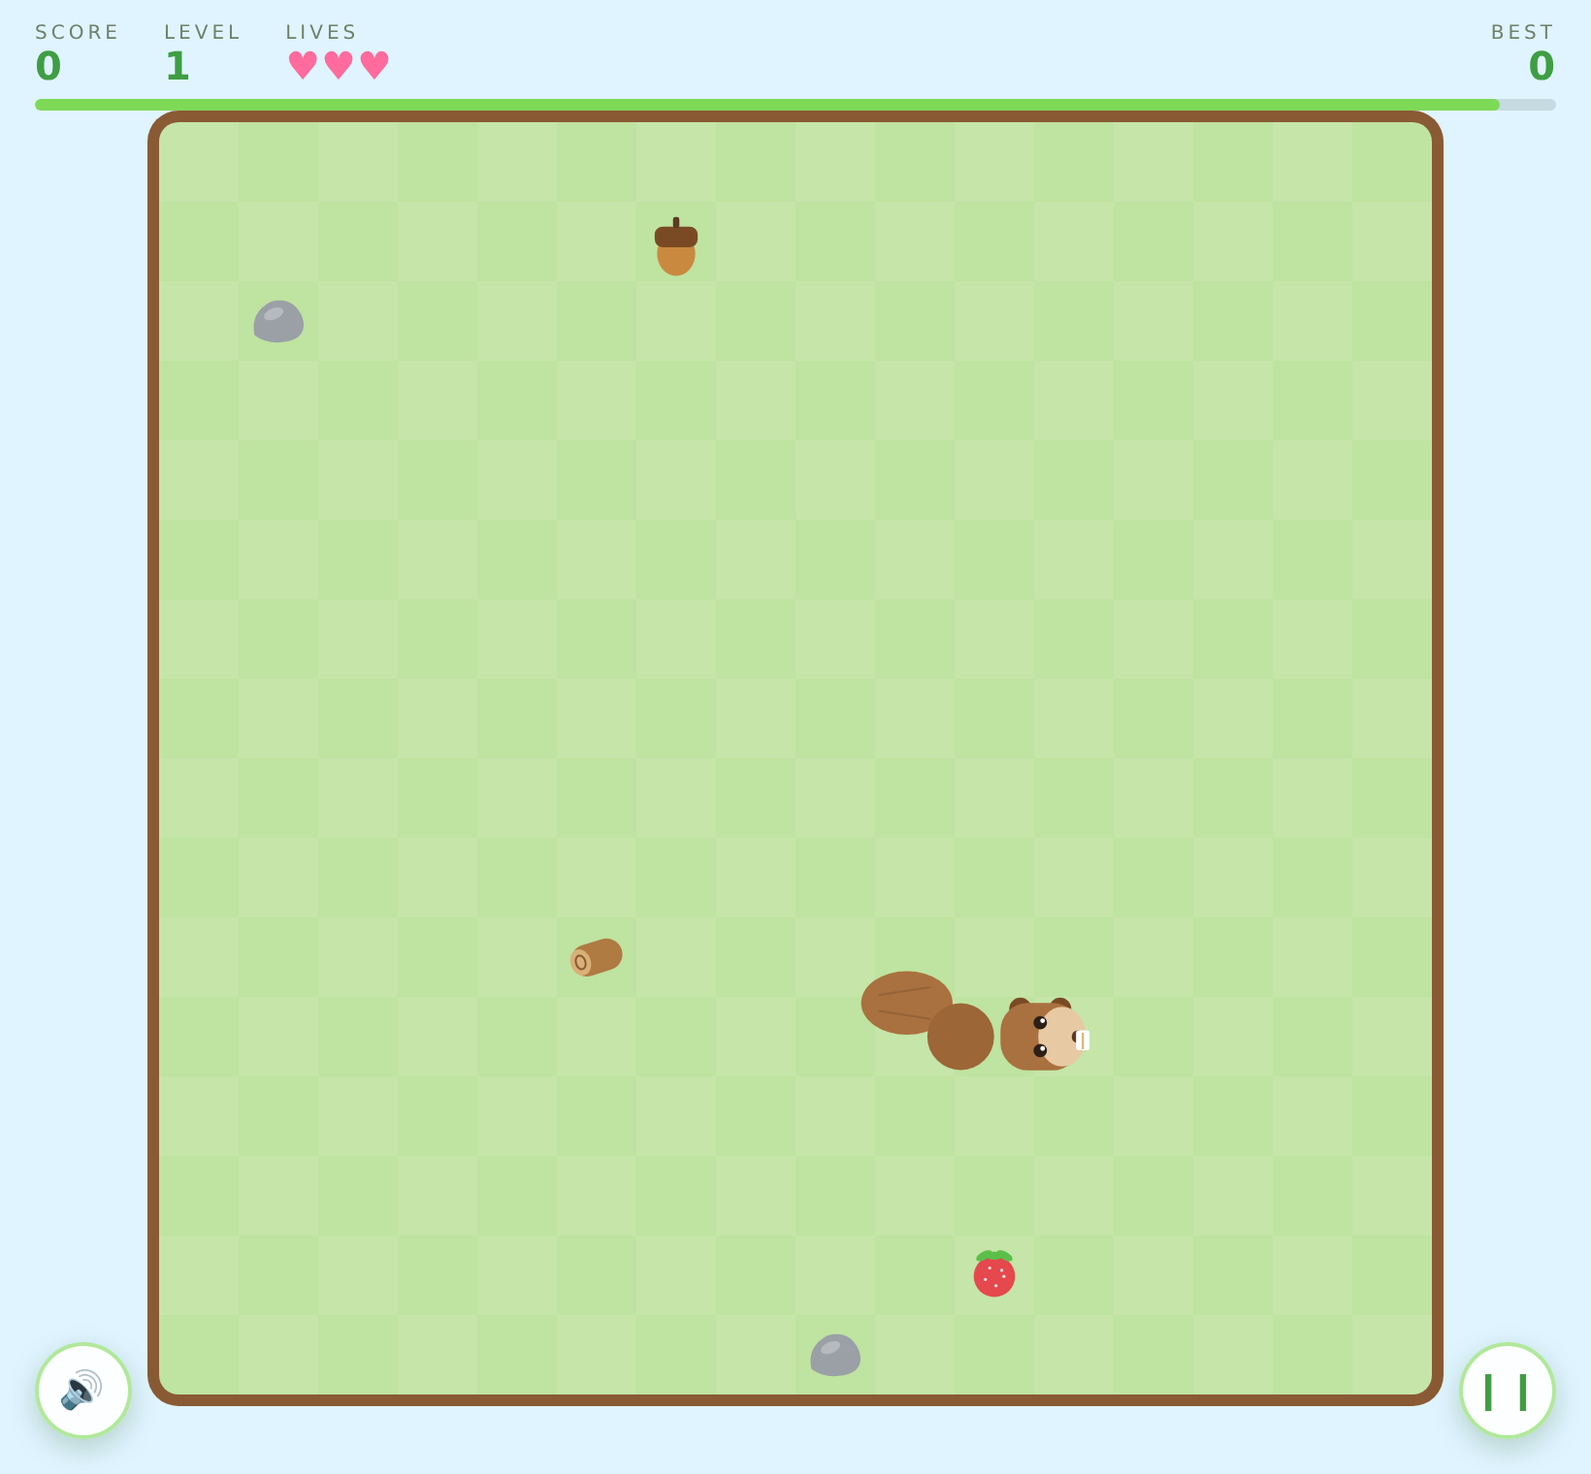
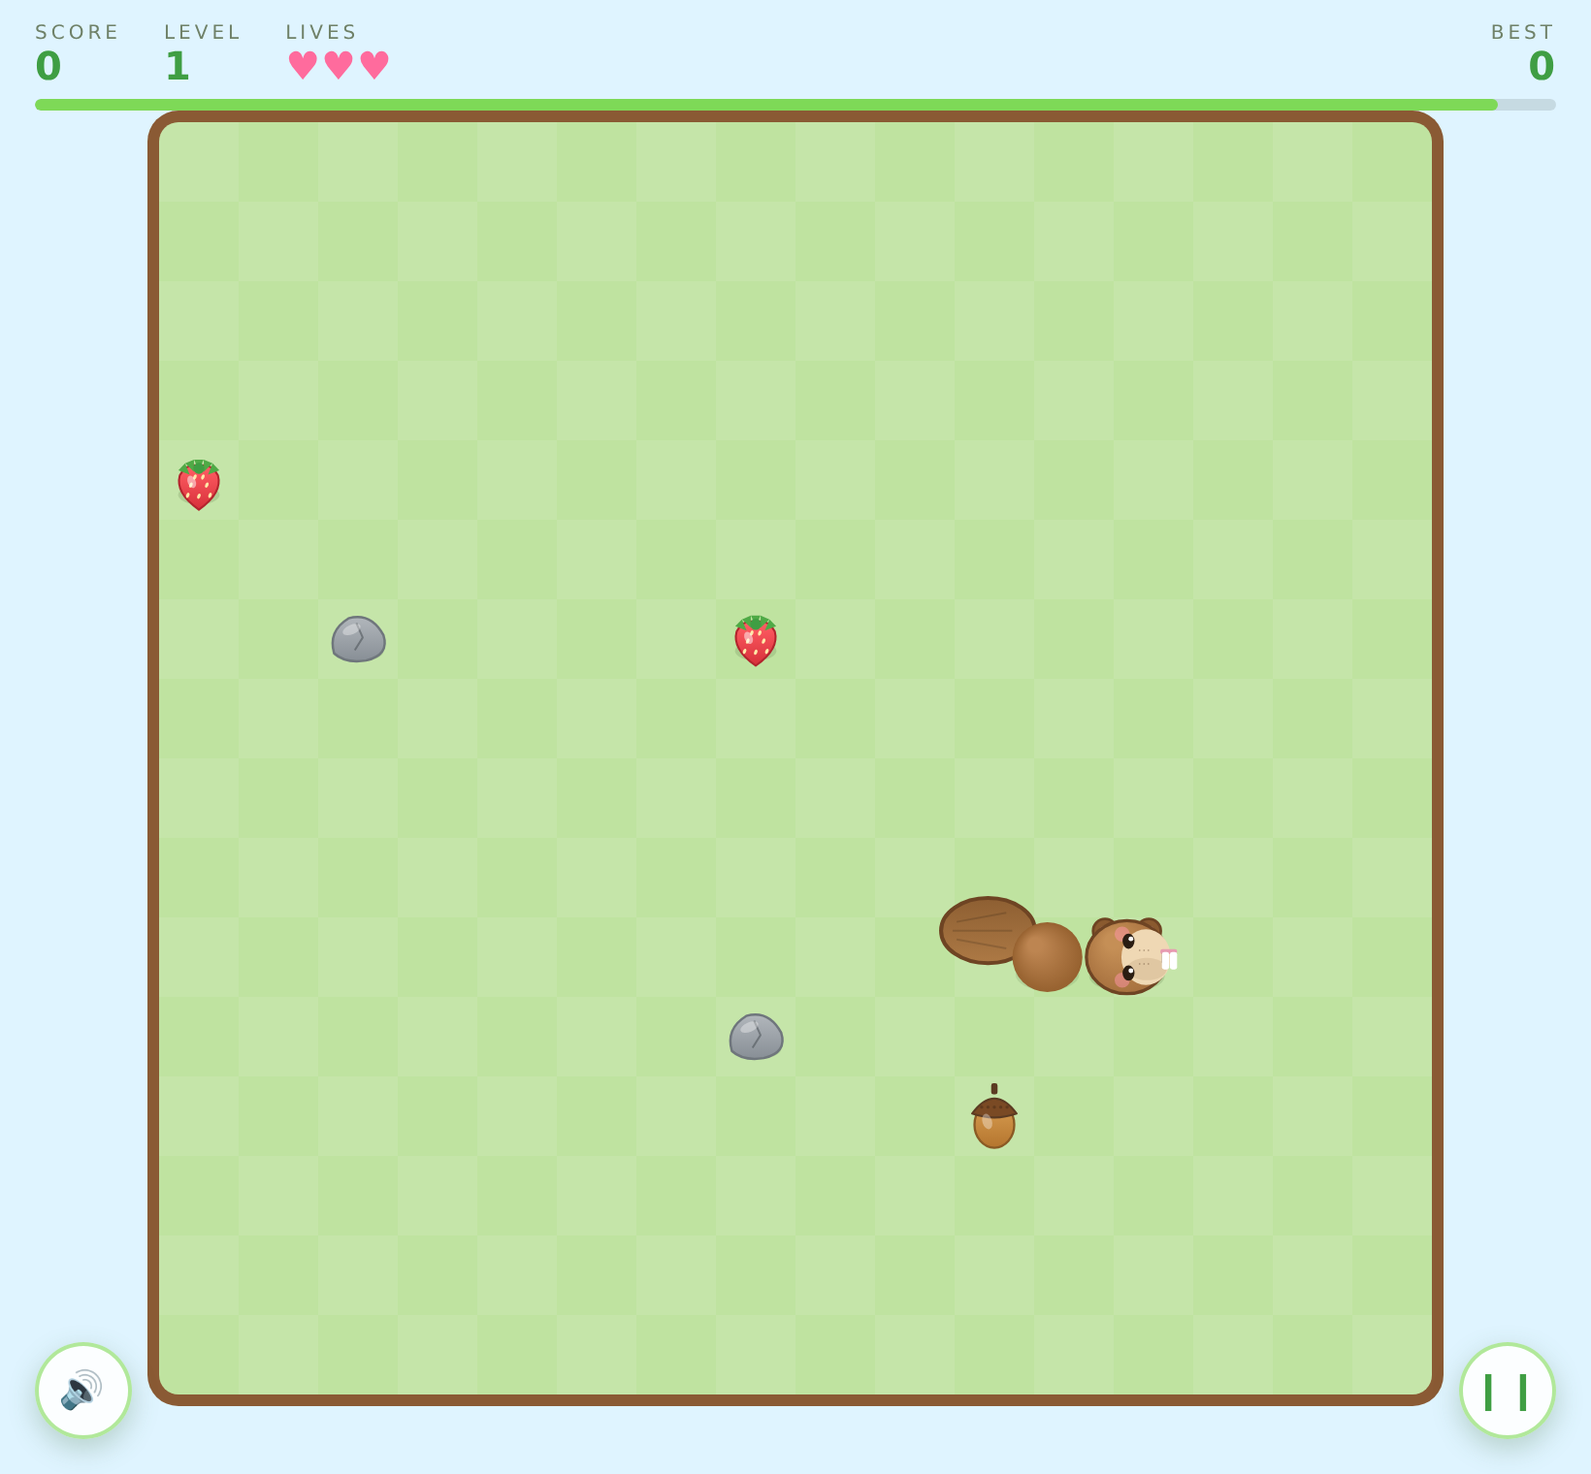
Polish Beaver Chase sprite art (shading, outlines, depth)
A craft pass on the canvas drawings for a more refined, cohesive
"cute sticker" look:

- Beaver: radial-shaded fur with a clean outline, pink inner ears,
  bigger sparkly eyes with an occasional blink, blush cheeks, a shiny
  triangular nose, gummed buck teeth, and whisker dots
- Body segments: radial shading + soft ground shadows; paddle tail now
  has a gradient, scale texture and outline
- Collectibles: gradient fills, outlines and highlights — the strawberry
  gets seeds + calyx, the acorn a textured cap + stem, the gem faceting,
  the log end-grain rings
- Rocks and the fish hazard: gradient shading, outlines, cracks/fins and
  soft ground shadows for depth

All still pure canvas — no assets, consistent color on every platform.

Claude-Session: https://claude.ai/code/session_014mrTRHqCUXy1hSyhseQPs2

diff --git a/snake/game.js b/snake/game.js
@@ -441,68 +441,146 @@
     ctx.closePath();
   }
 
+  // soft shadow on the grass beneath a sprite (call after translate, before rotate)
+  function groundShadow(rx, ry) {
+    ctx.fillStyle = "rgba(60,85,45,0.16)";
+    ctx.beginPath(); ctx.ellipse(0, ry * 1.2, rx, ry, 0, 0, 7); ctx.fill();
+  }
+
   function drawBeaverHead(cx2, cy2, ang, r) {
     ctx.save();
     ctx.translate(cx2, cy2);
+    groundShadow(r * 0.95, r * 0.4);
     ctx.rotate(ang);
-    // ears
-    ctx.fillStyle = "#7a4a24";
-    ctx.beginPath(); ctx.arc(-r * 0.5, -r * 0.7, r * 0.28, 0, 7); ctx.arc(r * 0.5, -r * 0.7, r * 0.28, 0, 7); ctx.fill();
-    // face
-    ctx.fillStyle = "#a9713f";
-    roundRect(-r, -r * 0.85, r * 2, r * 1.7, r * 0.7); ctx.fill();
-    // muzzle
-    ctx.fillStyle = "#e7c9a3";
-    ctx.beginPath(); ctx.ellipse(r * 0.55, 0, r * 0.6, r * 0.75, 0, 0, 7); ctx.fill();
-    // eyes
-    ctx.fillStyle = "#2c2016";
-    ctx.beginPath(); ctx.arc(0, -r * 0.35, r * 0.17, 0, 7); ctx.arc(0, r * 0.35, r * 0.17, 0, 7); ctx.fill();
+    const OL = "#6e4423";
+    ctx.lineJoin = "round"; ctx.lineCap = "round";
+    // ears (outlined, pink inner)
+    for (const sgn of [-1, 1]) {
+      ctx.fillStyle = "#8a5a2f";
+      ctx.beginPath(); ctx.arc(sgn * r * 0.55, -r * 0.66, r * 0.3, 0, 7); ctx.fill();
+      ctx.lineWidth = r * 0.07; ctx.strokeStyle = OL; ctx.stroke();
+      ctx.fillStyle = "#e79bb0";
+      ctx.beginPath(); ctx.arc(sgn * r * 0.55, -r * 0.64, r * 0.15, 0, 7); ctx.fill();
+    }
+    // head — radial-shaded fur with a clean outline
+    const g = ctx.createRadialGradient(-r * 0.35, -r * 0.4, r * 0.2, 0, 0, r * 1.35);
+    g.addColorStop(0, "#c58f56"); g.addColorStop(1, "#9c6636");
+    ctx.fillStyle = g;
+    ctx.beginPath(); ctx.ellipse(0, 0, r * 1.02, r * 0.92, 0, 0, 7); ctx.fill();
+    ctx.lineWidth = r * 0.08; ctx.strokeStyle = OL; ctx.stroke();
+    // muzzle + soft under-shade
+    ctx.fillStyle = "#efd8b4";
+    ctx.beginPath(); ctx.ellipse(r * 0.48, 0, r * 0.62, r * 0.7, 0, 0, 7); ctx.fill();
+    ctx.fillStyle = "rgba(150,110,70,0.16)";
+    ctx.beginPath(); ctx.ellipse(r * 0.5, r * 0.3, r * 0.5, r * 0.28, 0, 0, 7); ctx.fill();
+    // cheeks
+    ctx.fillStyle = "rgba(255,150,170,0.5)";
+    ctx.beginPath(); ctx.arc(-r * 0.12, r * 0.58, r * 0.19, 0, 7); ctx.arc(-r * 0.12, -r * 0.58, r * 0.19, 0, 7); ctx.fill();
+    // eyes (occasional blink) — sparkly
+    const blink = ((G.time + cx2 * 0.017) % 3.7) < 0.12;
+    for (const sgn of [-1, 1]) {
+      if (blink) {
+        ctx.strokeStyle = "#2a1d12"; ctx.lineWidth = r * 0.07;
+        ctx.beginPath(); ctx.moveTo(-r * 0.06, sgn * r * 0.4); ctx.lineTo(r * 0.14, sgn * r * 0.4); ctx.stroke();
+      } else {
+        ctx.fillStyle = "#2a1d12";
+        ctx.beginPath(); ctx.ellipse(r * 0.04, sgn * r * 0.4, r * 0.15, r * 0.19, 0, 0, 7); ctx.fill();
+        ctx.fillStyle = "#fff";
+        ctx.beginPath(); ctx.arc(r * 0.1, sgn * r * 0.4 - r * 0.06, r * 0.06, 0, 7); ctx.fill();
+      }
+    }
+    // nose (little triangle with a shine)
+    ctx.fillStyle = "#4a2f1c";
+    ctx.beginPath(); ctx.moveTo(r * 0.88, -r * 0.14); ctx.lineTo(r * 1.06, 0); ctx.lineTo(r * 0.88, r * 0.14); ctx.closePath(); ctx.fill();
+    ctx.fillStyle = "rgba(255,255,255,0.4)"; ctx.beginPath(); ctx.arc(r * 0.93, -r * 0.05, r * 0.04, 0, 7); ctx.fill();
+    // buck teeth (pink gum + two rounded teeth)
+    ctx.fillStyle = "#e79bb0"; roundRect(r * 0.84, -r * 0.2, r * 0.42, r * 0.12, r * 0.05); ctx.fill();
     ctx.fillStyle = "#fff";
-    ctx.beginPath(); ctx.arc(r * 0.06, -r * 0.4, r * 0.06, 0, 7); ctx.arc(r * 0.06, r * 0.3, r * 0.06, 0, 7); ctx.fill();
-    // nose
-    ctx.fillStyle = "#5b3b22";
-    ctx.beginPath(); ctx.arc(r * 0.95, 0, r * 0.16, 0, 7); ctx.fill();
-    // buck teeth
-    ctx.fillStyle = "#fff";
-    roundRect(r * 0.9, -r * 0.16, r * 0.34, r * 0.5, r * 0.06); ctx.fill();
-    ctx.strokeStyle = "#dcae6a"; ctx.lineWidth = Math.max(1, r * 0.04);
-    ctx.beginPath(); ctx.moveTo(r * 1.07, -r * 0.1); ctx.lineTo(r * 1.07, r * 0.32); ctx.stroke();
+    roundRect(r * 0.88, -r * 0.13, r * 0.18, r * 0.44, r * 0.06); ctx.fill();
+    roundRect(r * 0.88 + r * 0.2, -r * 0.13, r * 0.18, r * 0.44, r * 0.06); ctx.fill();
+    // whisker dots
+    ctx.fillStyle = "rgba(90,60,35,0.5)";
+    for (const sgn of [-1, 1]) for (let i = 0; i < 3; i++) { ctx.beginPath(); ctx.arc(r * 0.32 + i * r * 0.11, sgn * r * 0.17, r * 0.02, 0, 7); ctx.fill(); }
     ctx.restore();
   }
 
   // ----- drawn collectibles / props (color-consistent across every device) -----
   function drawLog(cx2, cy2, s) {
-    const w = s * 0.66, h = s * 0.4;
-    ctx.save(); ctx.translate(cx2, cy2); ctx.rotate(-0.3);
-    ctx.fillStyle = "#b07a43"; roundRect(-w / 2, -h / 2, w, h, h / 2); ctx.fill();
-    ctx.fillStyle = "#d9b078"; ctx.beginPath(); ctx.ellipse(-w / 2 + h * 0.3, 0, h * 0.32, h * 0.42, 0, 0, 7); ctx.fill();
-    ctx.strokeStyle = "#8a5a2f"; ctx.lineWidth = Math.max(1, s * 0.02);
-    ctx.beginPath(); ctx.ellipse(-w / 2 + h * 0.3, 0, h * 0.15, h * 0.22, 0, 0, 7); ctx.stroke();
+    const w = s * 0.72, h = s * 0.42;
+    ctx.save(); ctx.translate(cx2, cy2);
+    groundShadow(w * 0.48, h * 0.34);
+    ctx.rotate(-0.26); ctx.lineJoin = "round";
+    const g = ctx.createLinearGradient(0, -h / 2, 0, h / 2);
+    g.addColorStop(0, "#c08a4e"); g.addColorStop(1, "#9c6a38");
+    ctx.fillStyle = g; roundRect(-w / 2, -h / 2, w, h, h / 2); ctx.fill();
+    ctx.lineWidth = Math.max(1, s * 0.03); ctx.strokeStyle = "#7a5230"; roundRect(-w / 2, -h / 2, w, h, h / 2); ctx.stroke();
+    ctx.strokeStyle = "rgba(90,60,30,0.3)"; ctx.lineWidth = Math.max(1, s * 0.02);
+    ctx.beginPath(); ctx.moveTo(-w * 0.12, -h * 0.18); ctx.lineTo(w * 0.32, -h * 0.18); ctx.moveTo(-w * 0.06, h * 0.12); ctx.lineTo(w * 0.34, h * 0.12); ctx.stroke();
+    ctx.fillStyle = "#e7c38a"; ctx.beginPath(); ctx.ellipse(-w / 2 + h * 0.32, 0, h * 0.34, h * 0.46, 0, 0, 7); ctx.fill();
+    ctx.strokeStyle = "#b98a4f"; ctx.lineWidth = Math.max(1, s * 0.018);
+    ctx.beginPath(); ctx.ellipse(-w / 2 + h * 0.32, 0, h * 0.2, h * 0.28, 0, 0, 7); ctx.stroke();
+    ctx.beginPath(); ctx.ellipse(-w / 2 + h * 0.32, 0, h * 0.08, h * 0.12, 0, 0, 7); ctx.stroke();
     ctx.restore();
   }
   function drawAcorn(cx2, cy2, s) {
-    ctx.save(); ctx.translate(cx2, cy2);
-    ctx.fillStyle = "#c98a3f"; ctx.beginPath(); ctx.ellipse(0, s * 0.1, s * 0.24, s * 0.28, 0, 0, 7); ctx.fill();
-    ctx.fillStyle = "#7a4a24"; roundRect(-s * 0.27, -s * 0.24, s * 0.54, s * 0.26, s * 0.1); ctx.fill();
-    ctx.fillStyle = "#5b3b22"; roundRect(-s * 0.04, -s * 0.36, s * 0.08, s * 0.14, s * 0.03); ctx.fill();
+    ctx.save(); ctx.translate(cx2, cy2); ctx.lineJoin = "round";
+    groundShadow(s * 0.26, s * 0.12);
+    const g = ctx.createLinearGradient(0, -s * 0.1, 0, s * 0.4);
+    g.addColorStop(0, "#d59a4e"); g.addColorStop(1, "#b5762f");
+    ctx.fillStyle = g; ctx.beginPath(); ctx.ellipse(0, s * 0.12, s * 0.25, s * 0.29, 0, 0, 7); ctx.fill();
+    ctx.lineWidth = Math.max(1, s * 0.028); ctx.strokeStyle = "#8a5a24"; ctx.stroke();
+    ctx.fillStyle = "#7a4a24";
+    ctx.beginPath(); ctx.moveTo(-s * 0.28, -s * 0.02); ctx.quadraticCurveTo(0, -s * 0.4, s * 0.28, -s * 0.02);
+    ctx.quadraticCurveTo(0, s * 0.08, -s * 0.28, -s * 0.02); ctx.closePath(); ctx.fill();
+    ctx.strokeStyle = "#5b3b22"; ctx.lineWidth = Math.max(1, s * 0.025); ctx.stroke();
+    ctx.fillStyle = "rgba(60,38,20,0.4)";
+    for (let i = -2; i <= 2; i++) { ctx.beginPath(); ctx.arc(i * s * 0.08, -s * 0.1, s * 0.02, 0, 7); ctx.fill(); }
+    ctx.fillStyle = "#5b3b22"; roundRect(-s * 0.04, -s * 0.4, s * 0.08, s * 0.14, s * 0.03); ctx.fill();
+    ctx.fillStyle = "rgba(255,255,255,0.35)"; ctx.beginPath(); ctx.ellipse(-s * 0.09, s * 0.08, s * 0.06, s * 0.1, -0.3, 0, 7); ctx.fill();
     ctx.restore();
   }
   function drawBerry(cx2, cy2, s) {
-    ctx.save(); ctx.translate(cx2, cy2);
-    ctx.fillStyle = "#e5484d"; ctx.beginPath(); ctx.arc(0, s * 0.07, s * 0.26, 0, 7); ctx.fill();
-    ctx.fillStyle = "#5bbf4a";
-    for (let k = -1; k <= 1; k++) { ctx.beginPath(); ctx.ellipse(k * s * 0.13, -s * 0.19, s * 0.11, s * 0.05, k * 0.5, 0, 7); ctx.fill(); }
-    ctx.fillStyle = "rgba(255,255,255,0.85)";
-    for (let i = 0; i < 5; i++) { const a = i * 1.4; ctx.beginPath(); ctx.arc(Math.cos(a) * s * 0.12, s * 0.07 + Math.sin(a) * s * 0.12, s * 0.02, 0, 7); ctx.fill(); }
+    ctx.save(); ctx.translate(cx2, cy2); ctx.lineJoin = "round";
+    groundShadow(s * 0.26, s * 0.12);
+    const g = ctx.createLinearGradient(0, -s * 0.2, 0, s * 0.34);
+    g.addColorStop(0, "#ff5d63"); g.addColorStop(1, "#d62f39");
+    ctx.fillStyle = g;
+    ctx.beginPath();
+    ctx.moveTo(0, s * 0.33);
+    ctx.quadraticCurveTo(-s * 0.3, s * 0.12, -s * 0.24, -s * 0.1);
+    ctx.quadraticCurveTo(-s * 0.16, -s * 0.26, 0, -s * 0.22);
+    ctx.quadraticCurveTo(s * 0.16, -s * 0.26, s * 0.24, -s * 0.1);
+    ctx.quadraticCurveTo(s * 0.3, s * 0.12, 0, s * 0.33);
+    ctx.closePath(); ctx.fill();
+    ctx.lineWidth = Math.max(1, s * 0.025); ctx.strokeStyle = "#b3242d"; ctx.stroke();
+    ctx.fillStyle = "#ffe9a8";
+    for (const [sx, sy] of [[-0.1, 0.02], [0.1, 0.02], [0, 0.16], [-0.14, 0.15], [0.14, 0.15], [-0.05, -0.08], [0.05, -0.08]]) {
+      ctx.save(); ctx.translate(sx * s, sy * s); ctx.rotate(0.4); ctx.beginPath(); ctx.ellipse(0, 0, s * 0.02, s * 0.035, 0, 0, 7); ctx.fill(); ctx.restore();
+    }
+    ctx.fillStyle = "#4faa46";
+    for (let k = -2; k <= 2; k++) { ctx.save(); ctx.rotate(k * 0.4); ctx.beginPath(); ctx.moveTo(0, -s * 0.16); ctx.lineTo(-s * 0.06, -s * 0.3); ctx.lineTo(s * 0.06, -s * 0.3); ctx.closePath(); ctx.fill(); ctx.restore(); }
+    ctx.fillStyle = "#3f9e43"; ctx.beginPath(); ctx.arc(0, -s * 0.19, s * 0.07, 0, 7); ctx.fill();
+    ctx.fillStyle = "rgba(255,255,255,0.5)"; ctx.beginPath(); ctx.ellipse(-s * 0.09, -s * 0.02, s * 0.05, s * 0.08, -0.4, 0, 7); ctx.fill();
     ctx.restore();
   }
   function drawGem(cx2, cy2, s) {
-    const r = s * 0.27;
-    ctx.save(); ctx.translate(cx2, cy2);
-    ctx.fillStyle = "#5fd0e5"; ctx.beginPath();
-    ctx.moveTo(0, -r); ctx.lineTo(r, -r * 0.15); ctx.lineTo(0, r); ctx.lineTo(-r, -r * 0.15); ctx.closePath(); ctx.fill();
-    ctx.strokeStyle = "rgba(255,255,255,0.75)"; ctx.lineWidth = Math.max(1, s * 0.02);
-    ctx.beginPath(); ctx.moveTo(0, -r); ctx.lineTo(0, r); ctx.moveTo(-r, -r * 0.15); ctx.lineTo(r, -r * 0.15); ctx.stroke();
+    const r = s * 0.28;
+    ctx.save(); ctx.translate(cx2, cy2); ctx.lineJoin = "round";
+    groundShadow(r * 0.9, r * 0.4);
+    const g = ctx.createLinearGradient(0, -r, 0, r);
+    g.addColorStop(0, "#8fe6f2"); g.addColorStop(1, "#3bb6d4");
+    ctx.fillStyle = g;
+    ctx.beginPath();
+    ctx.moveTo(0, -r); ctx.lineTo(r * 0.62, -r * 0.35); ctx.lineTo(r * 0.42, r); ctx.lineTo(-r * 0.42, r); ctx.lineTo(-r * 0.62, -r * 0.35); ctx.closePath(); ctx.fill();
+    ctx.lineWidth = Math.max(1, s * 0.022); ctx.strokeStyle = "#2b93ad"; ctx.stroke();
+    ctx.strokeStyle = "rgba(255,255,255,0.6)"; ctx.lineWidth = Math.max(1, s * 0.016);
+    ctx.beginPath();
+    ctx.moveTo(-r * 0.62, -r * 0.35); ctx.lineTo(r * 0.62, -r * 0.35);
+    ctx.moveTo(0, -r); ctx.lineTo(-r * 0.2, -r * 0.35); ctx.lineTo(-r * 0.42, r);
+    ctx.moveTo(0, -r); ctx.lineTo(r * 0.2, -r * 0.35); ctx.lineTo(r * 0.42, r);
+    ctx.moveTo(-r * 0.2, -r * 0.35); ctx.lineTo(0, r); ctx.lineTo(r * 0.2, -r * 0.35);
+    ctx.stroke();
+    ctx.fillStyle = "rgba(255,255,255,0.85)"; ctx.beginPath(); ctx.arc(-r * 0.28, -r * 0.5, r * 0.08, 0, 7); ctx.fill();
     ctx.restore();
   }
   function drawItemGlyph(kind, cx2, cy2, s) {
@@ -512,25 +590,47 @@
     else drawGem(cx2, cy2, s);
   }
   function drawRock(cx2, cy2, s) {
-    ctx.save(); ctx.translate(cx2, cy2);
-    ctx.fillStyle = "#9aa0a6"; ctx.beginPath();
+    ctx.save(); ctx.translate(cx2, cy2); ctx.lineJoin = "round";
+    groundShadow(s * 0.32, s * 0.13);
+    const g = ctx.createLinearGradient(0, -s * 0.3, 0, s * 0.3);
+    g.addColorStop(0, "#b3b8bd"); g.addColorStop(1, "#868d94");
+    ctx.fillStyle = g; ctx.beginPath();
     ctx.moveTo(-s * 0.3, s * 0.18);
-    ctx.quadraticCurveTo(-s * 0.36, -s * 0.1, -s * 0.1, -s * 0.24);
-    ctx.quadraticCurveTo(s * 0.18, -s * 0.32, s * 0.3, -s * 0.05);
-    ctx.quadraticCurveTo(s * 0.38, s * 0.2, s * 0.1, s * 0.26);
-    ctx.quadraticCurveTo(-s * 0.14, s * 0.3, -s * 0.3, s * 0.18); ctx.closePath(); ctx.fill();
-    ctx.fillStyle = "rgba(255,255,255,0.28)"; ctx.beginPath(); ctx.ellipse(-s * 0.06, -s * 0.09, s * 0.13, s * 0.07, -0.4, 0, 7); ctx.fill();
+    ctx.quadraticCurveTo(-s * 0.38, -s * 0.1, -s * 0.12, -s * 0.26);
+    ctx.quadraticCurveTo(s * 0.16, -s * 0.34, s * 0.32, -s * 0.05);
+    ctx.quadraticCurveTo(s * 0.4, s * 0.2, s * 0.1, s * 0.27);
+    ctx.quadraticCurveTo(-s * 0.16, s * 0.31, -s * 0.3, s * 0.18); ctx.closePath(); ctx.fill();
+    ctx.lineWidth = Math.max(1, s * 0.03); ctx.strokeStyle = "#6f767c"; ctx.stroke();
+    ctx.strokeStyle = "rgba(80,86,92,0.6)"; ctx.lineWidth = Math.max(1, s * 0.02);
+    ctx.beginPath(); ctx.moveTo(-s * 0.02, -s * 0.2); ctx.lineTo(s * 0.06, -s * 0.02); ctx.lineTo(-s * 0.04, s * 0.14); ctx.stroke();
+    ctx.fillStyle = "rgba(255,255,255,0.35)"; ctx.beginPath(); ctx.ellipse(-s * 0.08, -s * 0.12, s * 0.12, s * 0.06, -0.4, 0, 7); ctx.fill();
     ctx.restore();
   }
   function drawFish(cx2, cy2, s, faceRight) {
-    ctx.save(); ctx.translate(cx2, cy2); if (faceRight) ctx.scale(-1, 1);
-    ctx.fillStyle = "#6fb7c9";
-    ctx.beginPath(); ctx.ellipse(0, 0, s * 0.3, s * 0.2, 0, 0, 7); ctx.fill();
-    ctx.beginPath(); ctx.moveTo(s * 0.22, 0); ctx.lineTo(s * 0.42, -s * 0.16); ctx.lineTo(s * 0.42, s * 0.16); ctx.closePath(); ctx.fill();
-    ctx.fillStyle = "#fff"; ctx.beginPath(); ctx.arc(-s * 0.13, -s * 0.04, s * 0.06, 0, 7); ctx.fill();
-    ctx.fillStyle = "#12303a"; ctx.beginPath(); ctx.arc(-s * 0.13, -s * 0.04, s * 0.03, 0, 7); ctx.fill();
-    ctx.strokeStyle = "#12303a"; ctx.lineWidth = Math.max(1, s * 0.03);
-    ctx.beginPath(); ctx.moveTo(-s * 0.22, -s * 0.13); ctx.lineTo(-s * 0.04, -s * 0.06); ctx.stroke();
+    ctx.save(); ctx.translate(cx2, cy2);
+    groundShadow(s * 0.32, s * 0.12);
+    if (faceRight) ctx.scale(-1, 1);
+    ctx.lineJoin = "round"; ctx.lineCap = "round";
+    // tail
+    ctx.fillStyle = "#4f97a8";
+    ctx.beginPath(); ctx.moveTo(s * 0.2, 0); ctx.lineTo(s * 0.44, -s * 0.18); ctx.quadraticCurveTo(s * 0.36, 0, s * 0.44, s * 0.18); ctx.closePath(); ctx.fill();
+    // body
+    const g = ctx.createLinearGradient(0, -s * 0.2, 0, s * 0.2);
+    g.addColorStop(0, "#7fc6d6"); g.addColorStop(1, "#579eb0");
+    ctx.fillStyle = g; ctx.beginPath(); ctx.ellipse(0, 0, s * 0.31, s * 0.21, 0, 0, 7); ctx.fill();
+    ctx.lineWidth = Math.max(1, s * 0.028); ctx.strokeStyle = "#3f7d8c"; ctx.stroke();
+    // belly
+    ctx.fillStyle = "rgba(255,255,255,0.4)"; ctx.beginPath(); ctx.ellipse(-s * 0.02, s * 0.08, s * 0.22, s * 0.09, 0, 0, 7); ctx.fill();
+    // top fin
+    ctx.fillStyle = "#4f97a8"; ctx.beginPath(); ctx.moveTo(-s * 0.02, -s * 0.18); ctx.lineTo(-s * 0.14, -s * 0.32); ctx.lineTo(s * 0.1, -s * 0.2); ctx.closePath(); ctx.fill();
+    // gill
+    ctx.strokeStyle = "rgba(63,125,140,0.7)"; ctx.lineWidth = Math.max(1, s * 0.02); ctx.beginPath(); ctx.arc(-s * 0.02, 0, s * 0.1, -1, 1); ctx.stroke();
+    // eye
+    ctx.fillStyle = "#fff"; ctx.beginPath(); ctx.arc(-s * 0.15, -s * 0.03, s * 0.07, 0, 7); ctx.fill();
+    ctx.fillStyle = "#12303a"; ctx.beginPath(); ctx.arc(-s * 0.16, -s * 0.03, s * 0.035, 0, 7); ctx.fill();
+    // grumpy brow
+    ctx.strokeStyle = "#2b5560"; ctx.lineWidth = Math.max(1, s * 0.035);
+    ctx.beginPath(); ctx.moveTo(-s * 0.24, -s * 0.14); ctx.lineTo(-s * 0.06, -s * 0.07); ctx.stroke();
     ctx.restore();
   }
 
@@ -597,25 +697,45 @@
     const starOn = G.starT > 0;
     ctx.globalAlpha = flash ? 0.4 : 1;
     if (snake.length) {
+    // pass 1: soft ground shadows under the whole body (subtle, no double-dark)
+    if (!starOn) {
+      ctx.fillStyle = "rgba(60,85,45,0.12)";
+      for (let i = snake.length - 1; i >= 1; i--) {
+        const from = snakePrev[i] || snake[i];
+        const cx2 = boardX + lerp(from.x, snake[i].x, t) * cell + cell / 2;
+        const cy2 = boardY + lerp(from.y, snake[i].y, t) * cell + cell / 2;
+        ctx.beginPath(); ctx.ellipse(cx2, cy2 + cell * 0.22, cell * 0.4, cell * 0.2, 0, 0, 7); ctx.fill();
+      }
+    }
+    // pass 2: shaded body segments
     for (let i = snake.length - 1; i >= 1; i--) {
       const from = snakePrev[i] || snake[i];
       const cx2 = boardX + lerp(from.x, snake[i].x, t) * cell + cell / 2;
       const cy2 = boardY + lerp(from.y, snake[i].y, t) * cell + cell / 2;
       const isTail = i === snake.length - 1;
-      const rad = cell * (isTail ? 0.5 : 0.42);
-      if (starOn) { ctx.fillStyle = `hsl(${(G.time * 200 + i * 24) % 360}, 80%, 65%)`; }
-      else { ctx.fillStyle = i % 2 === 0 ? "#a9713f" : "#9c6636"; }
+      const rad = cell * (isTail ? 0.5 : 0.44);
       if (isTail) {
-        // flat paddle tail
+        // flat paddle tail with scale texture + outline
         const prev = snake[i - 1] || snake[i];
         const ang = Math.atan2(snake[i].y - prev.y, snake[i].x - prev.x);
-        ctx.save(); ctx.translate(cx2, cy2); ctx.rotate(ang);
-        ctx.beginPath(); ctx.ellipse(rad * 0.2, 0, rad * 1.15, rad * 0.8, 0, 0, 7); ctx.fill();
-        ctx.strokeStyle = "rgba(0,0,0,0.12)"; ctx.lineWidth = 1;
-        ctx.beginPath(); ctx.moveTo(-rad * 0.4, -rad * 0.4); ctx.lineTo(rad * 0.9, -rad * 0.2);
-        ctx.moveTo(-rad * 0.4, rad * 0.4); ctx.lineTo(rad * 0.9, rad * 0.2); ctx.stroke();
+        ctx.save(); ctx.translate(cx2, cy2); ctx.rotate(ang); ctx.lineJoin = "round";
+        const tg = ctx.createLinearGradient(0, -rad, 0, rad);
+        if (starOn) { tg.addColorStop(0, `hsl(${(G.time * 200) % 360},80%,70%)`); tg.addColorStop(1, `hsl(${(G.time * 200 + 40) % 360},80%,55%)`); }
+        else { tg.addColorStop(0, "#b07c47"); tg.addColorStop(1, "#8a5c30"); }
+        ctx.fillStyle = tg;
+        ctx.beginPath(); ctx.ellipse(rad * 0.16, 0, rad * 1.18, rad * 0.82, 0, 0, 7); ctx.fill();
+        ctx.lineWidth = Math.max(1, cell * 0.05); ctx.strokeStyle = starOn ? "rgba(255,255,255,0.5)" : "#6e4423"; ctx.stroke();
+        ctx.strokeStyle = "rgba(0,0,0,0.14)"; ctx.lineWidth = Math.max(1, cell * 0.02);
+        ctx.beginPath();
+        ctx.moveTo(-rad * 0.3, -rad * 0.45); ctx.lineTo(rad * 0.95, -rad * 0.22);
+        ctx.moveTo(-rad * 0.45, 0); ctx.lineTo(rad * 1.05, 0);
+        ctx.moveTo(-rad * 0.3, rad * 0.45); ctx.lineTo(rad * 0.95, rad * 0.22); ctx.stroke();
         ctx.restore();
       } else {
+        const bg = ctx.createRadialGradient(cx2 - rad * 0.35, cy2 - rad * 0.35, rad * 0.2, cx2, cy2, rad);
+        if (starOn) { bg.addColorStop(0, `hsl(${(G.time * 200 + i * 24) % 360},85%,72%)`); bg.addColorStop(1, `hsl(${(G.time * 200 + i * 24) % 360},80%,52%)`); }
+        else { bg.addColorStop(0, "#bd8551"); bg.addColorStop(1, "#96612f"); }
+        ctx.fillStyle = bg;
         ctx.beginPath(); ctx.arc(cx2, cy2, rad, 0, 7); ctx.fill();
       }
     }
